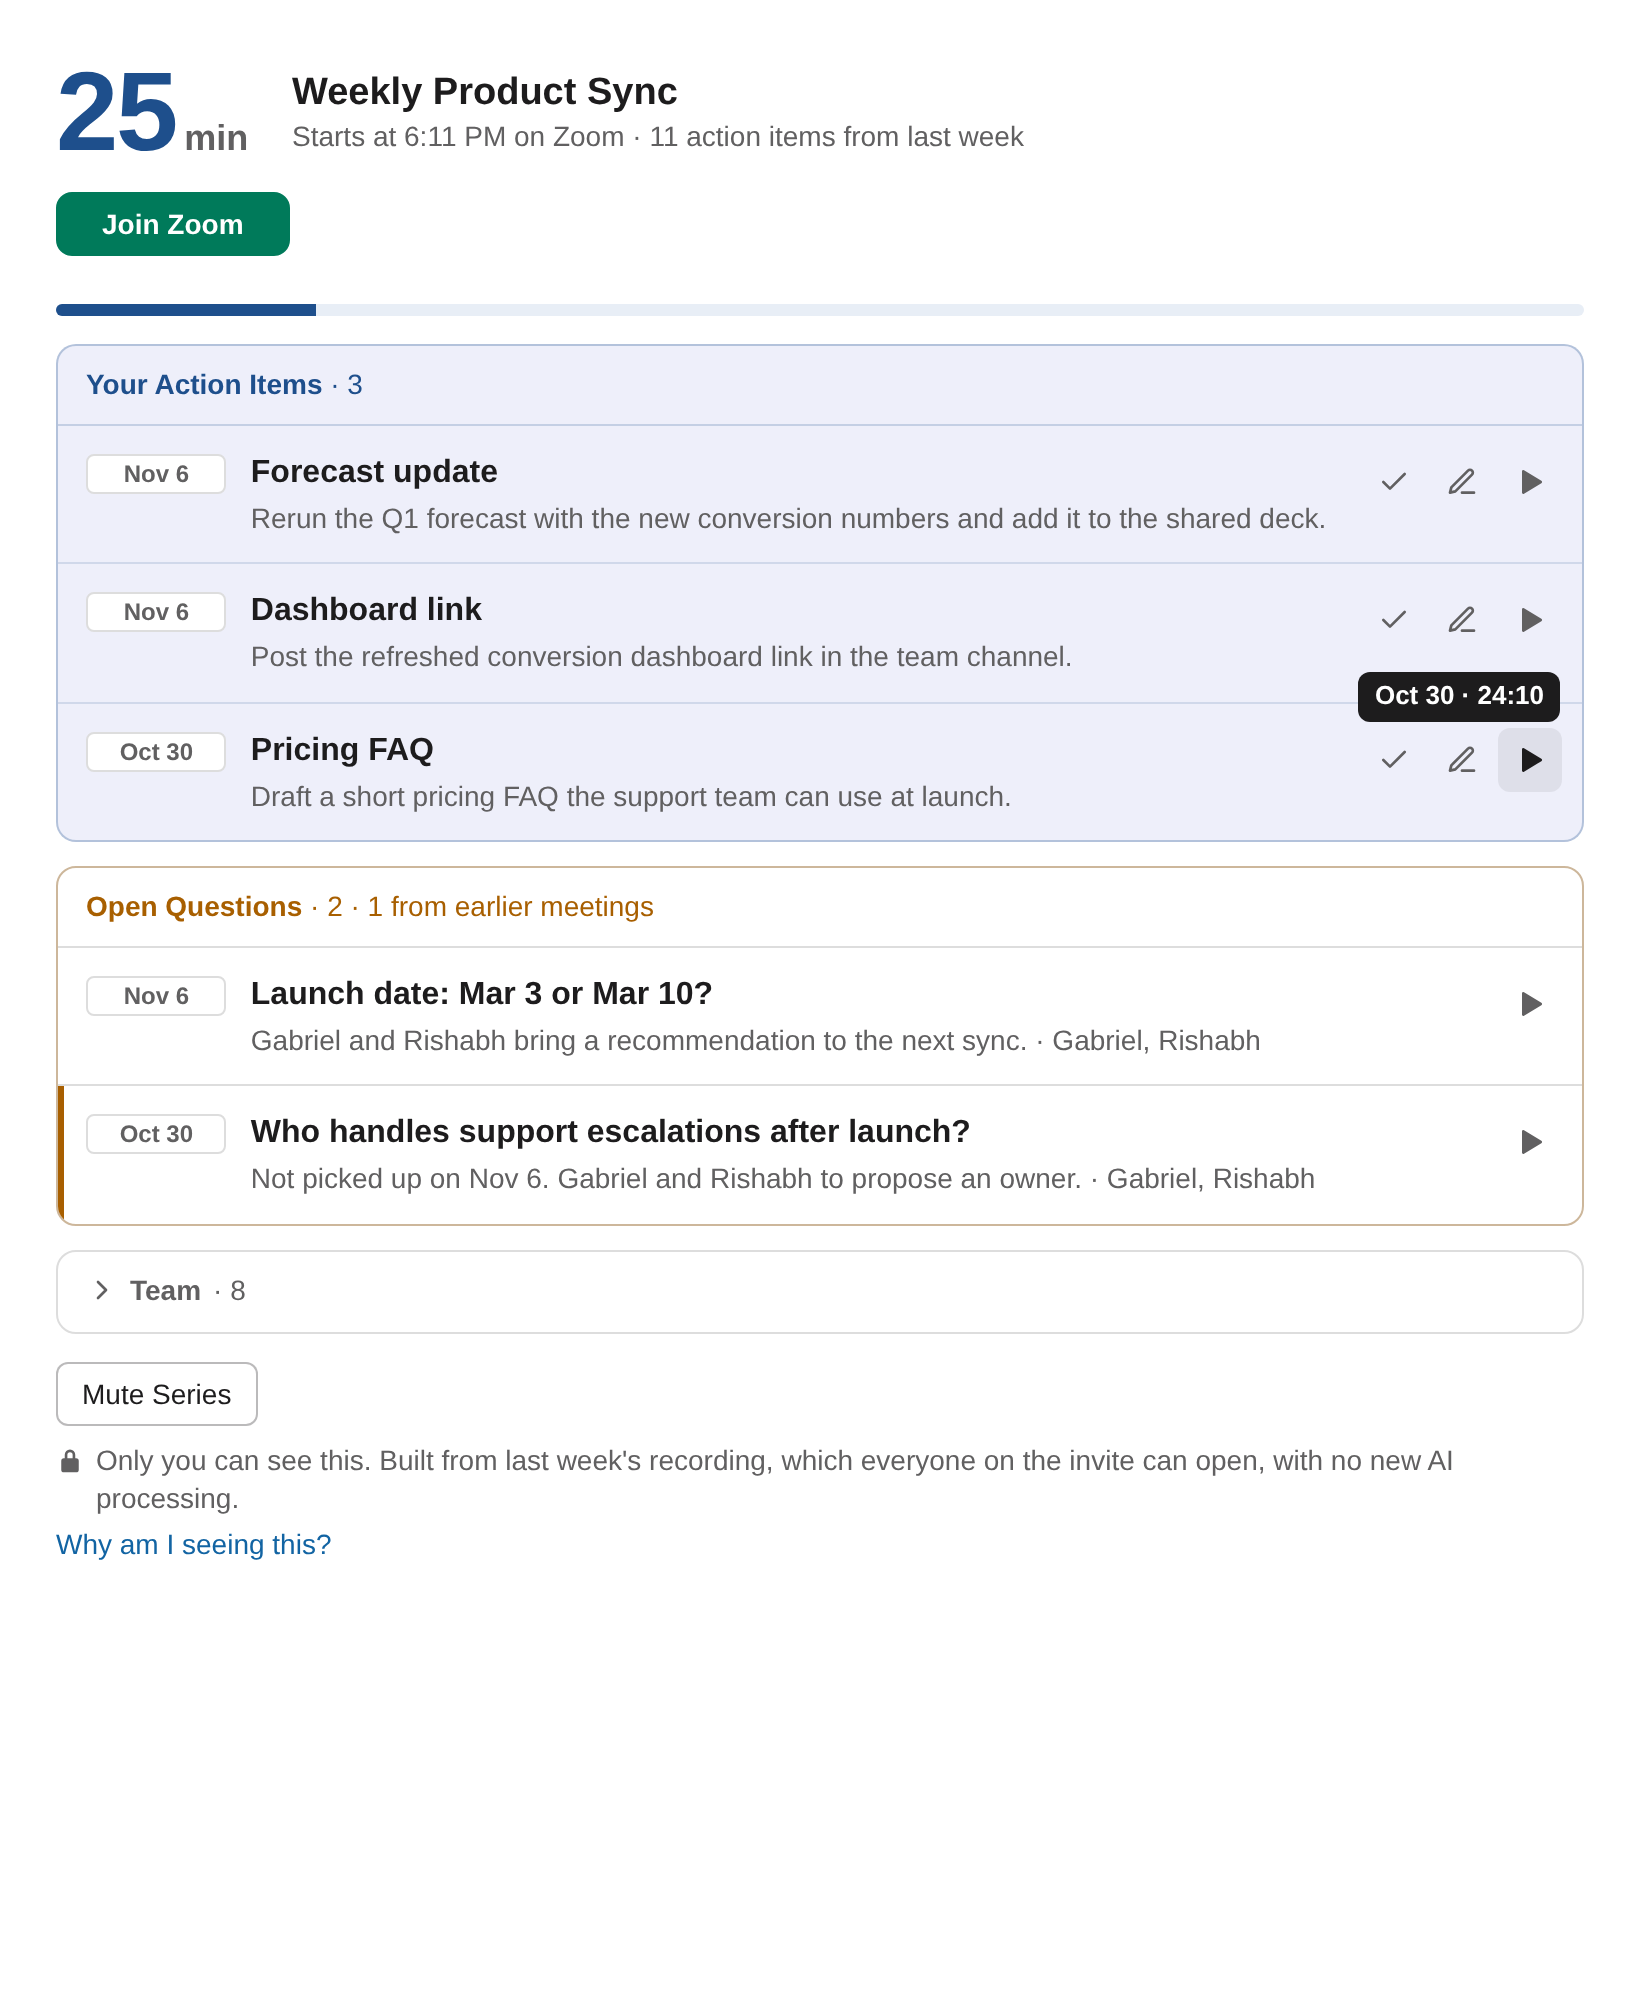
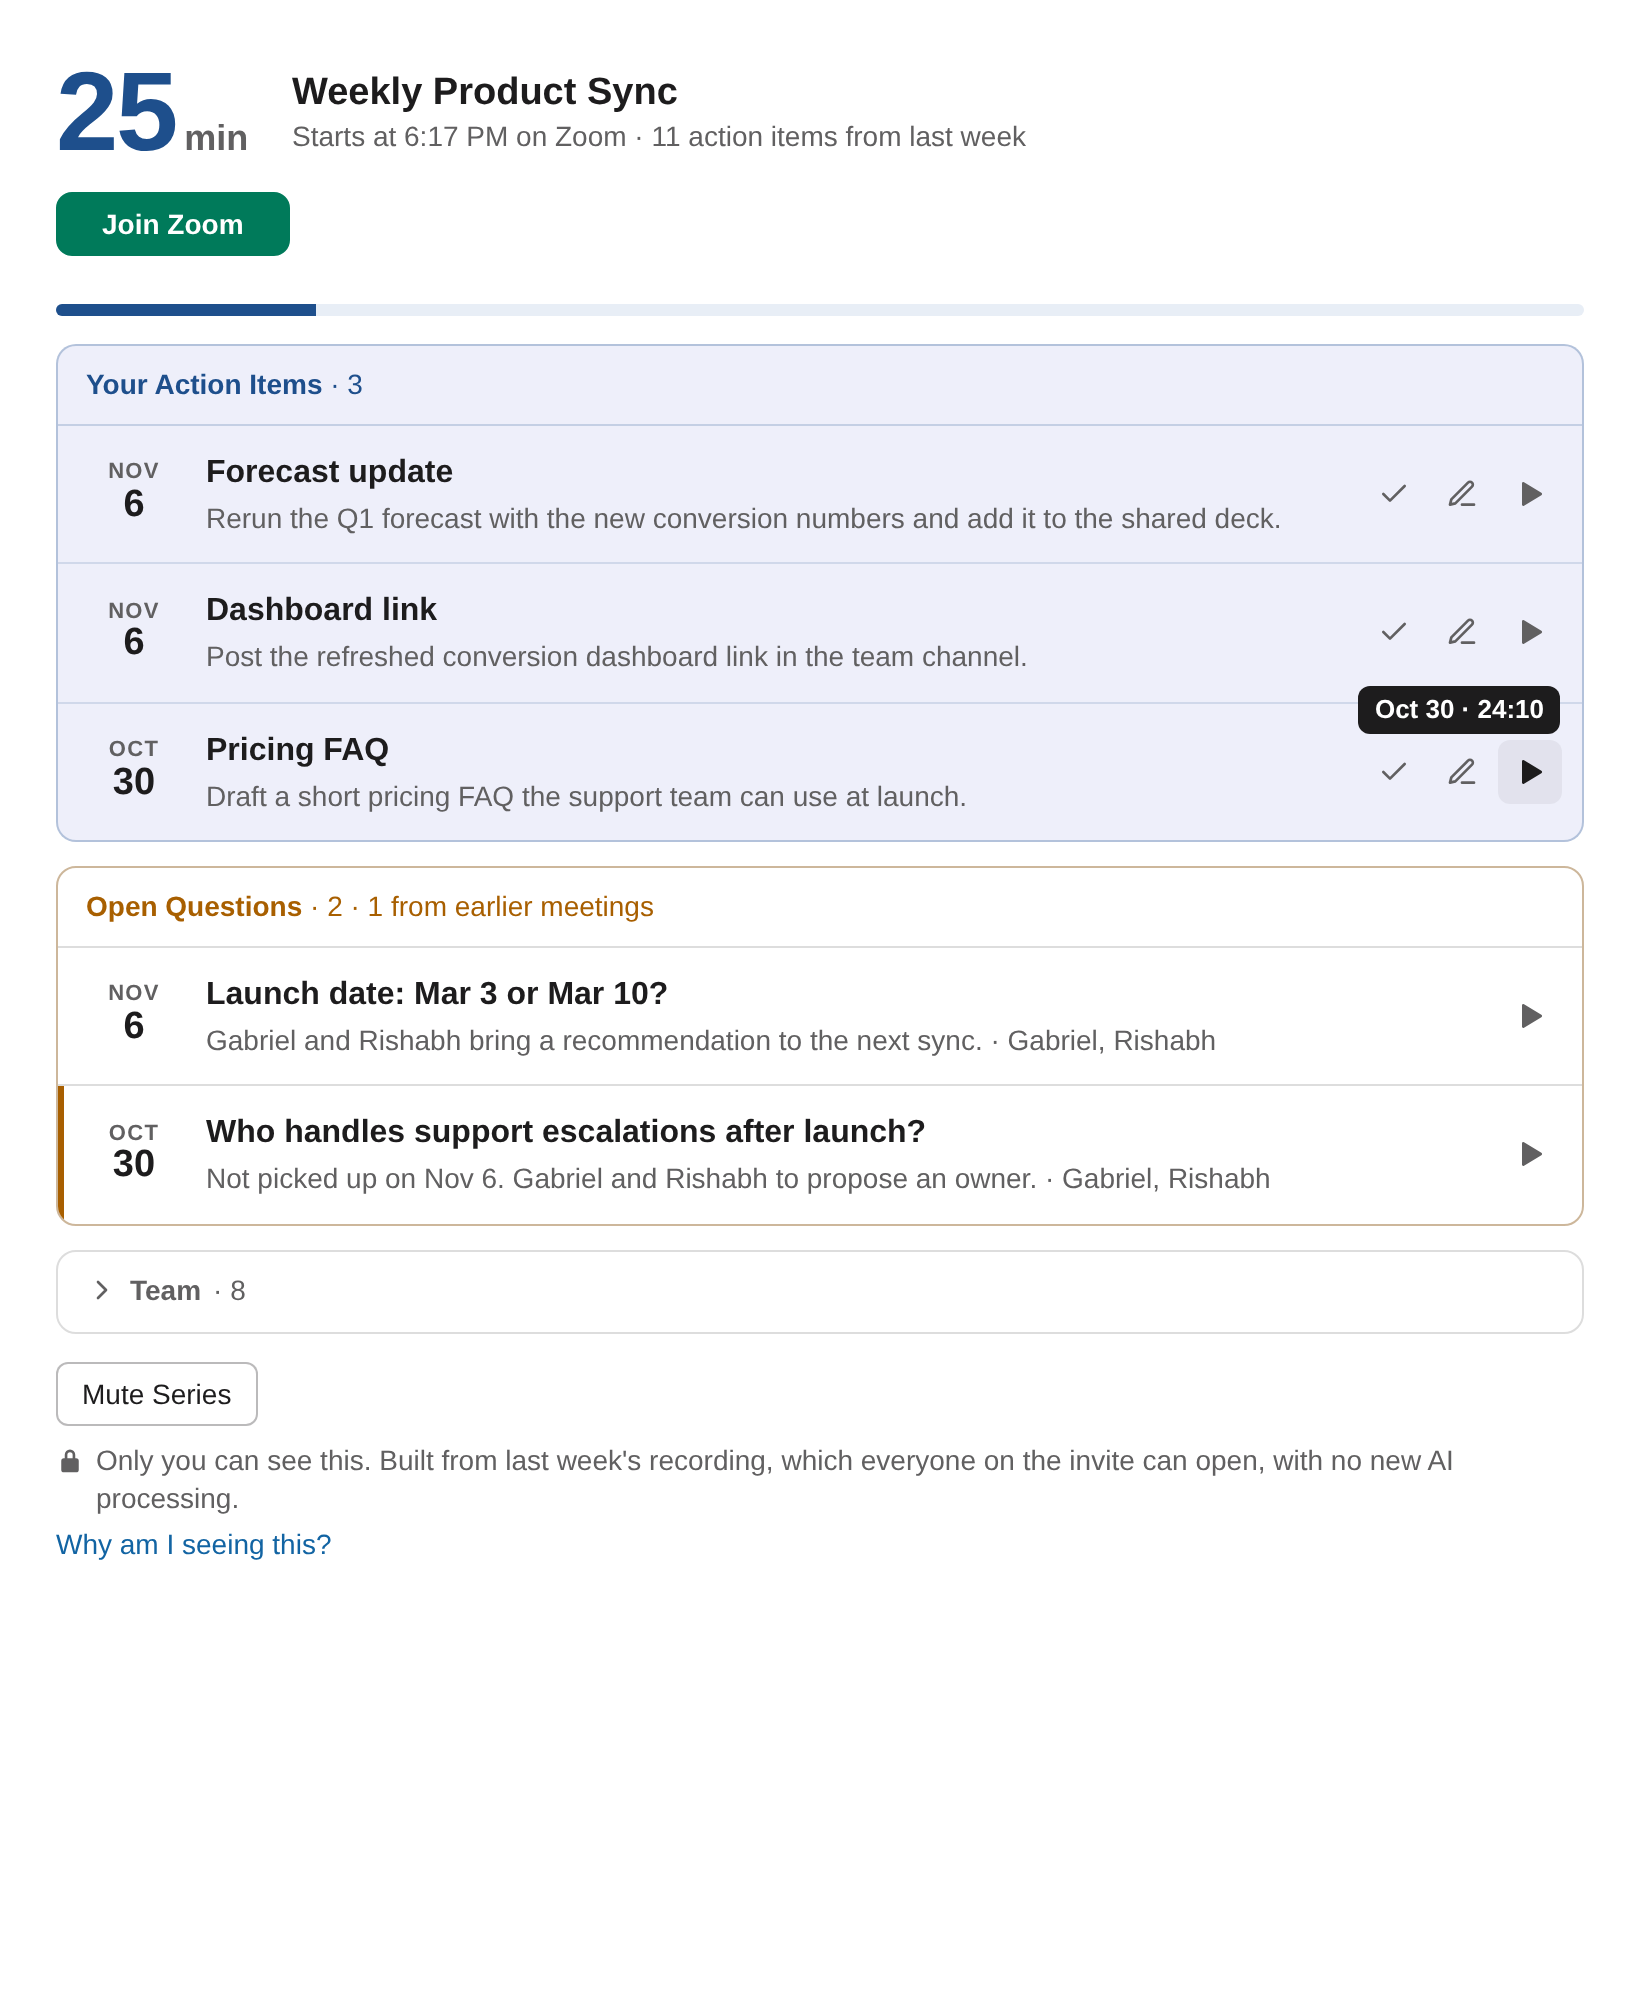
Heads-Up card in Ansel: date as a calendar stack, date and buttons centred vertically
Claude-Session: https://claude.ai/code/session_01SoGk1VkQgGD6LEJ7c356qP

diff --git a/card/heads-up-card.js b/card/heads-up-card.js
@@ -264,13 +264,16 @@
     :host([embedded]) .r.q.q-stale { box-shadow: inset 3px 0 0 var(--soon); }
     :host([embedded]) .tag { font-size: 12px; }
     :host([embedded]) .stack .rows { gap: 0; }
-    :host([embedded]) .r { grid-template-columns: 4.4em minmax(0, 1fr) auto; column-gap: 12px; padding: 12px 10px 12px 14px; border-radius: 0; }
+    :host([embedded]) .r { grid-template-columns: 3em minmax(0, 1fr) auto; column-gap: 12px; padding: 12px 10px 12px 14px; border-radius: 0; }
     :host([embedded]) .r + .r { border-top: 1px solid var(--line); }
     :host([embedded]) .mine-stack .r + .r { border-top-color: color-mix(in srgb, var(--ansel) 14%, transparent); }
     :host([embedded]) .rail { display: none; }
-    :host([embedded]) .dcol { align-self: start; padding-top: 2px; }
-    :host([embedded]) .dcol .tag.date { display: block; margin: 0; text-align: center; }
-    :host([embedded]) .acts { grid-column: 3; align-self: start; justify-content: flex-end; flex-wrap: nowrap; gap: 2px; }
+    /* Date column and buttons are centred vertically in the row */
+    :host([embedded]) .dcol { align-self: center; }
+    :host([embedded]) .cal { display: block; text-align: center; line-height: 1.05; }
+    :host([embedded]) .cal .mo { display: block; font-size: 11px; font-weight: 700; letter-spacing: .06em; text-transform: uppercase; color: var(--quiet); }
+    :host([embedded]) .cal .dy { display: block; font-size: 19px; font-weight: 700; color: var(--ink); font-variant-numeric: tabular-nums; }
+    :host([embedded]) .acts { grid-column: 3; align-self: center; justify-content: flex-end; flex-wrap: nowrap; gap: 2px; }
     :host([embedded]) .ask { grid-column: 1 / -1; }
     :host([embedded]) .r.mine { background: none; }
     :host([embedded]) .r.mine.is-done { background: var(--done-bg); }
@@ -643,11 +646,14 @@
         aria-label="Play transcript${esc(spokenDate)} at ${esc(spokenStamp(item.seconds))}: ${esc(item.text)}">▶ ${esc(date)}${esc(fmtStamp(item.seconds))}</button>`;
     }
 
-    // Embedded: the date of the item's meeting ("Nov 6") as a fixed-width tag in the row's first
+    // Embedded: the date of the item's meeting as a small calendar stack in the row's first
     // column, so the dates line up down the card. Standalone rows show the date on the ▶ button instead.
     _dateCol(item) {
       if (!this.hasAttribute('embedded')) return '';
-      const tag = item.dateLabel ? `<span class="tag date" title="From the ${esc(item.dateLabel)} meeting">${esc(item.dateLabel)}</span>` : '';
+      // A small calendar page: the month above the day ("NOV" over "6").
+      const [mo, day] = String(item.dateLabel || '').split(' ');
+      const tag = item.dateLabel ? `<span class="cal" title="From the ${esc(item.dateLabel)} meeting" aria-label="${esc(item.dateLabel)}">
+        <span class="mo" aria-hidden="true">${esc(mo)}</span><span class="dy" aria-hidden="true">${esc(day || '')}</span></span>` : '';
       return `<span class="dcol">${tag}</span>`;
     }
 

diff --git a/current_status.md b/current_status.md
@@ -15,7 +15,7 @@ This is not yet an always-on or production deployment. The current process runs 
 ## Completed
 
 - **Countdown follows the Slack ping (2026-11-13)**: every link in the Slack card now carries the meeting's real start (`&start=<epoch seconds>`). Opening it sets the prototype's clock so the Heads-Up countdown matches the Slack card, and reopening the link later continues the countdown instead of restarting at 1:25 PM. The prototype's clock now runs on real time, so it also keeps time in a background tab. Links without `start` behave as before. Needs the VM update (`setup-vm.sh`) after merge.
-- **Open questions on the Heads-Up card in Ansel (2026-11-13)**: the card now lists every open question still unresolved from the last meeting and the earlier ones you attended, under the action items. Questions you're tagged on come first ("You're tagged"); ones raised before last meeting are flagged "Still unresolved". Every row on the card, action items and questions, now has a small tag with its meeting's date ("Nov 6"). Order: Your Action Items, Open Questions, then Team, which starts folded and opens from its heading. Hovering ▶ shows the date and timestamp instantly. The date tag sits in its own column on the left so dates line up; open questions carry no extra tags; the footer has only Mute Series. Each has its summary context line, its stakeholders and ▶ to the transcript moment. New seed question q3 (Oct 30, Gabriel and Rishabh): "Who handles support escalations after launch?", not picked up on Nov 6. Slack card unchanged. Contract 2.3.
+- **Open questions on the Heads-Up card in Ansel (2026-11-13)**: the card now lists every open question still unresolved from the last meeting and the earlier ones you attended, under the action items. Questions you're tagged on come first ("You're tagged"); ones raised before last meeting are flagged "Still unresolved". Every row on the card, action items and questions, now has a small tag with its meeting's date ("Nov 6"). Order: Your Action Items, Open Questions, then Team, which starts folded and opens from its heading. Hovering ▶ shows the date and timestamp instantly. The date sits in its own column on the left as a small calendar stack ("NOV" over "6"), centred vertically like the buttons, so dates line up; open questions carry no extra tags; the footer has only Mute Series. Each has its summary context line, its stakeholders and ▶ to the transcript moment. New seed question q3 (Oct 30, Gabriel and Rishabh): "Who handles support escalations after launch?", not picked up on Nov 6. Slack card unchanged. Contract 2.3.
 - **Earlier meetings on the Slack card (2026-11-13)**: your action items still open from earlier meetings (up to 3 earlier recorded meetings you attended) now appear after last meeting's, and every timestamp names its meeting's date ("Pricing FAQ (Oct 30 · 24:10)"). Seed: one still-open item each for Gabriel and Rishabh (Oct 30) and Alicia and Varun (Oct 23), with transcript lines. Contract 2.1.
 - **Condensed Slack card live and confirmed in Slack (2026-11-13)**: one text block and one row of buttons (✓, Join Zoom, Open in Ansel, Mute Series, then a small "Open in Ansel to make changes." note; "You own N items" is bold; Still Open, Decided and Not Useful are off the Slack card); your item links to its transcript moment; several items of yours get checkboxes. Other people's items, Not right and the transcript are in Ansel. Previews and the real output: `card/slack-mockups/`. Zoom is the default demo join link.
 - **Slack card redesigned to match `card/` (contract 2.0)**: countdown with Join, every action item from last meeting with owners (yours first, `YOURS`), Mark done, Not right with reasons, Not useful with reasons, Mute with Undo, "Why am I seeing this?" and the trust footer; the same event names as `card/CONTRACT.md`. Card tests: `slack-app/test/card.mjs`.

diff --git a/card/CONTRACT.md b/card/CONTRACT.md
@@ -108,7 +108,7 @@ Setting `card.data` again re-renders from the new data. If it is the same viewer
 | (embedded, 2.3) | With `<heads-up-card embedded>` the card shows every item it is given, in stacked cards: **Your Action Items**, then **Open Questions**, then **Team**. Team folds to its heading and starts closed; tapping the heading opens it, and the host can open it with `card.expanded = true`. Pass every item and `moreCount: 0` |
 | (embedded, 2.3) | Hovering or focusing ▶ shows the meeting date and timestamp ("Nov 6 · 14:32") straight away, as a tooltip with no delay |
 | (embedded, 2.2) | Embedded action items are two stacked cards, **Your action items · N** and **Team · N**, rows split by a hairline with borderless icon buttons on the right. Rows use icon buttons (▶ with date and time in its tooltip, ✓ Mark done, ✎ Edit), tint your own rows with `--mine-bg` with no name or YOURS tag (they sit under Your action items), and drop **Not right** from other people's items. Standalone rendering is unchanged |
-| (embedded, 2.3) | Every embedded row (action items and open questions) starts with a fixed-width date tag for the meeting it comes from (`item.dateLabel`, e.g. "Nov 6"), so the dates line up down the card. Open questions show no "You're tagged" or "Unresolved since" tags when embedded (standalone keeps them). Headings read **Your Action Items**, **Open Questions**, **Team**. The embedded footer has only **Mute Series** (no Open last meeting or Not useful). Standalone rows keep the date on the ▶ button |
+| (embedded, 2.3) | Every embedded row (action items and open questions) starts with the date of the meeting it comes from (`item.dateLabel`) as a small calendar stack, "NOV" over "6", so the dates line up down the card; the date and the row's buttons are centred vertically. Open questions show no "You're tagged" or "Unresolved since" tags when embedded (standalone keeps them). Headings read **Your Action Items**, **Open Questions**, **Team**. The embedded footer has only **Mute Series** (no Open last meeting or Not useful). Standalone rows keep the date on the ▶ button |
 | `item.editable` | 2.2. Optional. `true` shows **Edit** on the row and fires `edit_tap` (payload `itemId`, `section`, `meetingId`); on the viewer's own items it replaces Not right. The app decides who can edit (Ansel: the item's owner or the organizer) and records the change |
 | `item.edited` | 2.2. Optional text, e.g. "Edited by Gabriel · Nov 13 · was …". Shows an **Edited** tag on the row with that text as its tooltip |
 | `item.done` | Optional, viewer's items only; `true` shows the row as done (green background, "✓ Done"). Ignored on other people's items |

diff --git a/docs/ansel-mockup-spec.md b/docs/ansel-mockup-spec.md
@@ -97,7 +97,7 @@ Layout sketch (the player is audio only):
 - Demo-only shortcut: anyone with a forwarded link sees Ansel as that person. A real product would use the signed-in user.
 
 **Series list expands in place; no Action items tab (branch `rishabh/ansel-polish-8`)**
-- The card in Ansel gets every item: your action items, then open questions, then **Team**, which starts folded to its heading and opens in place, instead of "+N more in Ansel" linking out (the standalone pages and Slack keep the link). Hovering ▶ shows the meeting date and timestamp instantly. Each row starts with its meeting's date in an aligned column; the footer has only **Mute Series**.
+- The card in Ansel gets every item: your action items, then open questions, then **Team**, which starts folded to its heading and opens in place, instead of "+N more in Ansel" linking out (the standalone pages and Slack keep the link). Hovering ▶ shows the meeting date and timestamp instantly. Each row starts with its meeting's date as a small calendar stack (NOV over 6) in an aligned column, centred vertically like the buttons; the footer has only **Mute Series**.
 - The meeting screen has **Transcript · Summary** only; a meeting's own items are in the Summary's action item table.
 - Old links to the Action items tab (Slack's "N more from the team", `#ansel/<meeting>/actions/`) open the Meetings page with that series' card expanded.
 
